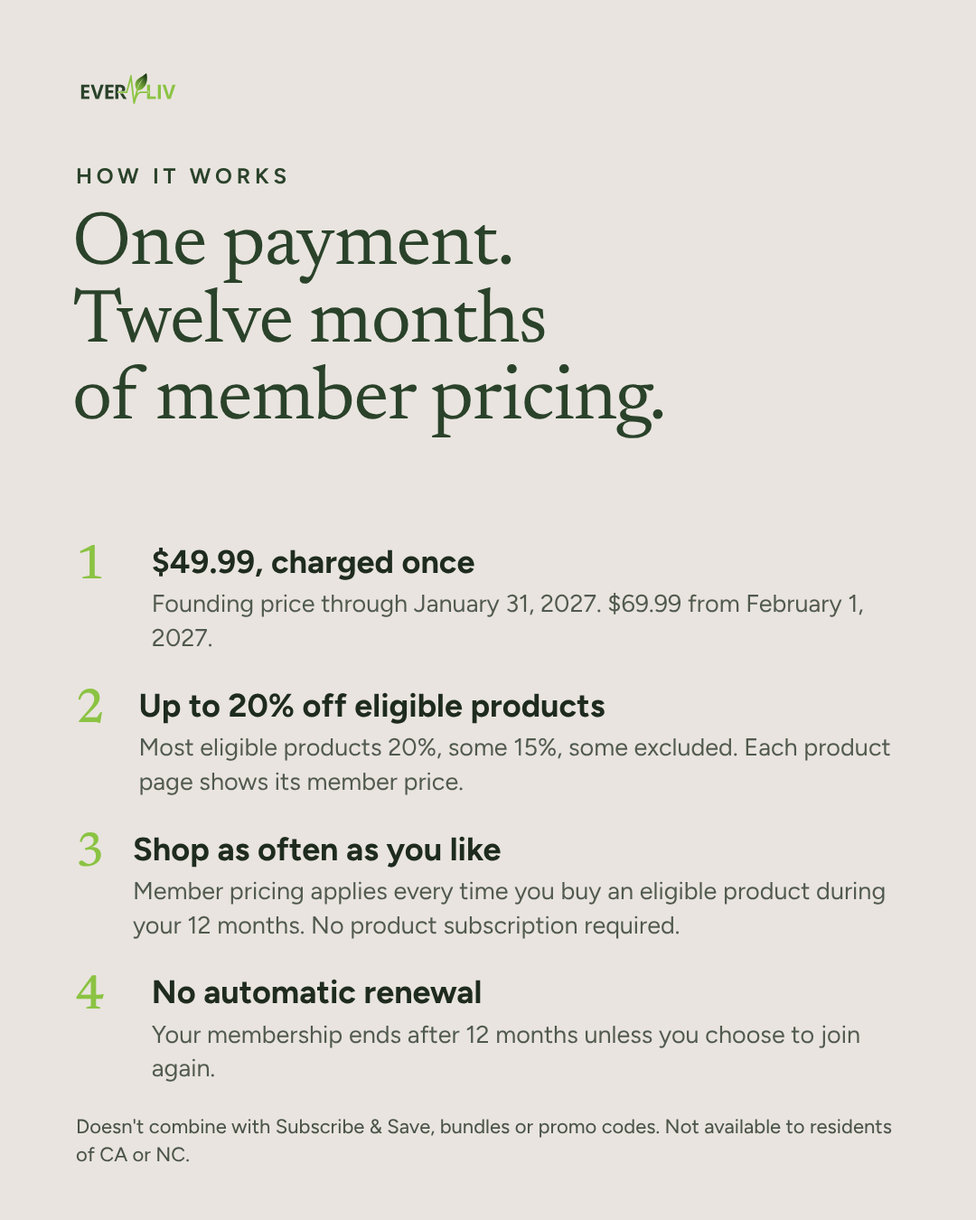
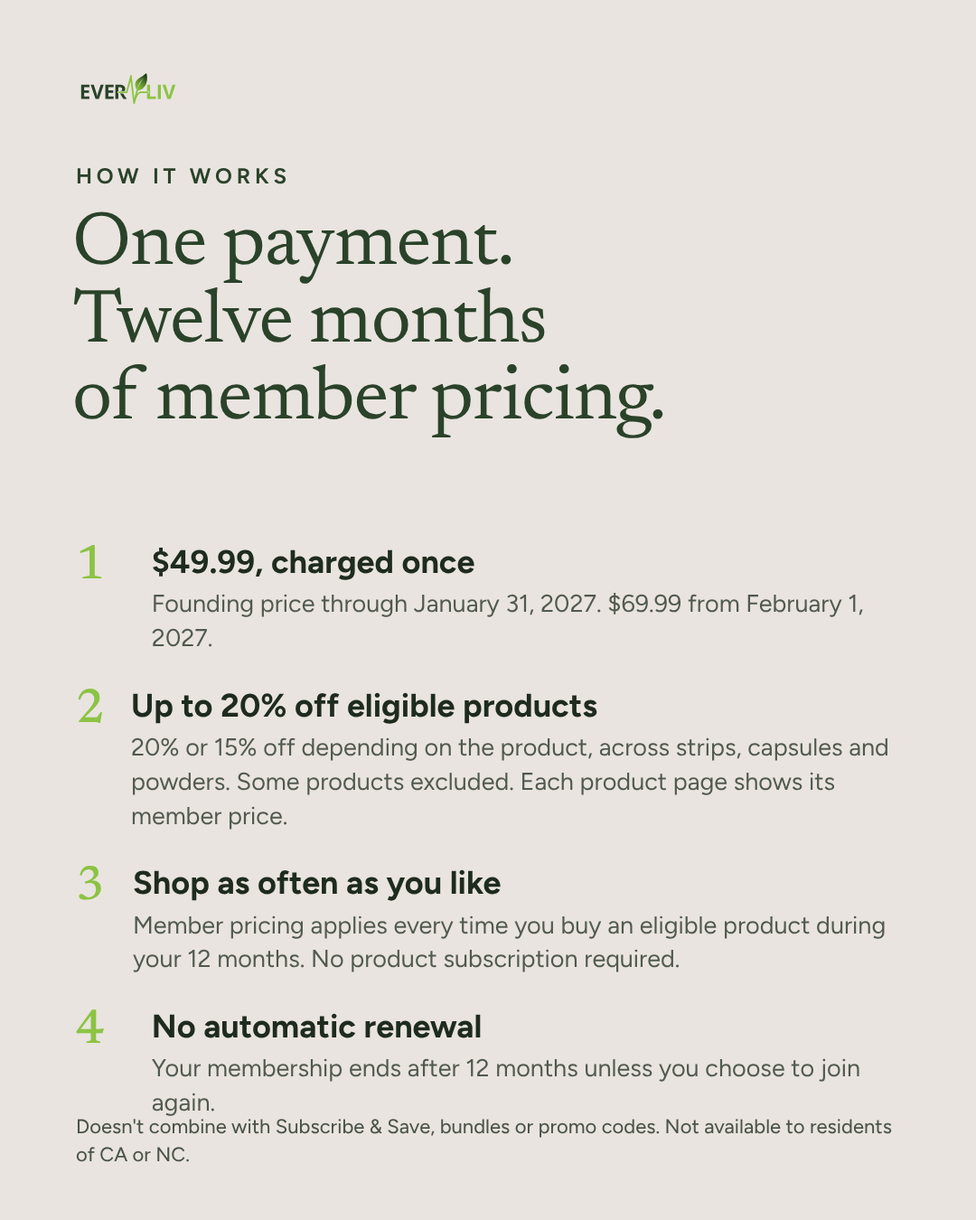
Founding Members rev 2: clean story 3, card-led launch + email header, beta-NMN example, '20% or 15%' accuracy, readiness pre-check
Claude-Session: https://claude.ai/code/session_01XtbQQjuhLfL9EX7cTct2eV

Changed region(s): [[0.0611, 0.56, 0.9167, 0.9333], [0.0611, 0.8089, 0.1222, 0.8711]]

diff --git a/campaigns/2026-founding-members/round-1/FM-05-email-black-friday.html b/campaigns/2026-founding-members/round-1/FM-05-email-black-friday.html
@@ -3,14 +3,14 @@
 <!-- Preheader --><div style="display:none;max-height:0;overflow:hidden">A full year of member pricing. $49.99, paid once. Founding price through January 31, 2027.</div>
 <table role="presentation" width="100%" cellpadding="0" cellspacing="0" style="background:#E9E4DF"><tr><td align="center" style="padding:24px 12px">
 <table role="presentation" width="100%" cellpadding="0" cellspacing="0" style="width:100%;max-width:600px;background:#ffffff;border-radius:14px;overflow:hidden">
-<tr><td><img src="FM-04-email-header_1200x600.png" width="600" alt="Become a Founding Member. A full year of member pricing, $49.99 paid once." style="display:block;width:100%;height:auto;border:0"></td></tr>
+<tr><td><img src="FM-04-email-header_1200x600.png" width="600" alt="EverLiv Founding Member card. Become a Founding Member: a full year of member pricing, $49.99 paid once." style="display:block;width:100%;height:auto;border:0"></td></tr>
 <tr><td class="px" style="padding:36px 40px 8px">
 <p style="margin:0 0 16px;font-size:17px;line-height:1.55">This Black Friday, we're not discounting products. We're opening membership.</p>
-<p style="margin:0 0 16px;font-size:17px;line-height:1.55">Join EverLiv Member Price Club as a Founding Member for <b>$49.99, paid once</b>. For the next 12 months, you get <b>member pricing every time you buy an eligible product</b>, as often as you like.</p>
+<p style="margin:0 0 16px;font-size:17px;line-height:1.55">Join EverLiv Member Price Club as a Founding Member for <b>$49.99, paid once</b>. For the next 12 months, you get <b>member pricing every time you buy an eligible product</b>, as often as you like, across strips, capsules, powders and more.</p>
 </td></tr>
 <tr><td class="px" style="padding:8px 40px">
 <table role="presentation" width="100%" cellpadding="0" cellspacing="0" style="background:#F4F1EE;border-radius:12px"><tr><td style="padding:22px 26px;font-size:16px;line-height:1.8">
-✓ Member pricing on every eligible order for 12 months<br>✓ Up to 20% off (most eligible products 20%, some 15%)<br>✓ One $49.99 payment. No automatic renewal<br>✓ No product subscription required<br>✓ Founding price through January 31, 2027 (ET)
+✓ Member pricing on every eligible order for 12 months<br>✓ Up to 20% off: 20% or 15%, depending on the product<br>✓ One $49.99 payment. No automatic renewal<br>✓ No product subscription required<br>✓ Founding price through January 31, 2027 (ET)
 </td></tr></table></td></tr>
 <tr><td class="px" style="padding:22px 40px 8px;font-size:16px;line-height:1.55">
 <p style="margin:0 0 6px"><b>Is it worth it?</b> If everything you buy is eligible for the full 20%, membership covers its fee after about $250 of purchases in 12 months. On 15% products it takes about $333. If you shop less often, everyday prices or Subscribe &amp; Save may suit you better.</p>
@@ -20,6 +20,6 @@
 <p style="margin:14px 0 0;font-size:14px;color:#5a665a">From February 1, 2027, membership is $69.99.</p>
 </td></tr>
 <tr><td class="px" style="padding:0 40px 32px;font-size:12px;line-height:1.55;color:#6b746b">
-Founding price $49.99 applies to memberships bought through January 31, 2027 (Eastern Time); $69.99 from February 1, 2027. Membership is a single payment, lasts 12 months from activation and does not renew automatically. During your membership, member pricing applies to every eligible one-time product purchase (not Subscribe &amp; Save): most eligible products 20% off, some 15%, some excluded. Doesn't combine with Subscribe &amp; Save, bundles, partner pricing or promo codes. Savings depend on what you buy and aren't guaranteed to exceed the fee. Refunds: full refund within 3 business days; within 30 days, a full refund if member pricing is unused, otherwise the fee minus savings received. Not currently available to residents of California or North Carolina. See the Membership Terms at everliv.life.<br><br>
+Founding price $49.99 applies to memberships bought through January 31, 2027 (Eastern Time); $69.99 from February 1, 2027. Membership is a single payment, lasts 12 months from activation and does not renew automatically. During your membership, member pricing applies to every eligible one-time product purchase (not Subscribe &amp; Save): 20% or 15% off depending on the product, some products excluded. Doesn't combine with Subscribe &amp; Save, bundles, partner pricing or promo codes. Savings depend on what you buy and aren't guaranteed to exceed the fee. Refunds: full refund within 3 business days; within 30 days, a full refund if member pricing is unused, otherwise the fee minus savings received. Not currently available to residents of California or North Carolina. See the Membership Terms at everliv.life.<br><br>
 EverLiv LLC · 30 N Gould St. Ste R, Sheridan, WY 82801 · <a href="{{unsubscribe}}" style="color:#6b746b">Unsubscribe</a>
 </td></tr></table></td></tr></table></body></html>

diff --git a/campaigns/2026-founding-members/round-1/FM-02-carousel-2-what-you-get_1080x1350.html b/campaigns/2026-founding-members/round-1/FM-02-carousel-2-what-you-get_1080x1350.html
@@ -30,7 +30,7 @@ body{width:var(--w);height:var(--h);overflow:hidden;font-family:FT;-webkit-font-
 <div class="eyebrow" style="position:absolute;left:84px;top:180px;color:#2A422A">How it works</div>
 <div class="serif" style="position:absolute;left:80px;top:230px;font-size:84px;line-height:1.02;color:#2A422A">One payment.<br>Twelve months<br>of member pricing.</div>
 <div style="position:absolute;left:84px;right:84px;top:600px;display:grid;gap:34px">
- <div style="display:flex;gap:30px;align-items:flex-start"><div class="serif" style="font-size:54px;line-height:1;color:#8BC343;width:56px;font-weight:500">1</div><div><div style="font-size:36px;font-weight:700;line-height:1.2">$49.99, charged once</div><div style="font-size:27px;line-height:1.4;opacity:.75;margin-top:6px">Founding price through January 31, 2027. $69.99 from February 1, 2027.</div></div></div><div style="display:flex;gap:30px;align-items:flex-start"><div class="serif" style="font-size:54px;line-height:1;color:#8BC343;width:56px;font-weight:500">2</div><div><div style="font-size:36px;font-weight:700;line-height:1.2">Up to 20% off eligible products</div><div style="font-size:27px;line-height:1.4;opacity:.75;margin-top:6px">Most eligible products 20%, some 15%, some excluded. Each product page shows its member price.</div></div></div><div style="display:flex;gap:30px;align-items:flex-start"><div class="serif" style="font-size:54px;line-height:1;color:#8BC343;width:56px;font-weight:500">3</div><div><div style="font-size:36px;font-weight:700;line-height:1.2">Shop as often as you like</div><div style="font-size:27px;line-height:1.4;opacity:.75;margin-top:6px">Member pricing applies every time you buy an eligible product during your 12 months. No product subscription required.</div></div></div><div style="display:flex;gap:30px;align-items:flex-start"><div class="serif" style="font-size:54px;line-height:1;color:#8BC343;width:56px;font-weight:500">4</div><div><div style="font-size:36px;font-weight:700;line-height:1.2">No automatic renewal</div><div style="font-size:27px;line-height:1.4;opacity:.75;margin-top:6px">Your membership ends after 12 months unless you choose to join again.</div></div></div>
+ <div style="display:flex;gap:30px;align-items:flex-start"><div class="serif" style="font-size:54px;line-height:1;color:#8BC343;width:56px;font-weight:500">1</div><div><div style="font-size:36px;font-weight:700;line-height:1.2">$49.99, charged once</div><div style="font-size:27px;line-height:1.4;opacity:.75;margin-top:6px">Founding price through January 31, 2027. $69.99 from February 1, 2027.</div></div></div><div style="display:flex;gap:30px;align-items:flex-start"><div class="serif" style="font-size:54px;line-height:1;color:#8BC343;width:56px;font-weight:500">2</div><div><div style="font-size:36px;font-weight:700;line-height:1.2">Up to 20% off eligible products</div><div style="font-size:27px;line-height:1.4;opacity:.75;margin-top:6px">20% or 15% off depending on the product, across strips, capsules and powders. Some products excluded. Each product page shows its member price.</div></div></div><div style="display:flex;gap:30px;align-items:flex-start"><div class="serif" style="font-size:54px;line-height:1;color:#8BC343;width:56px;font-weight:500">3</div><div><div style="font-size:36px;font-weight:700;line-height:1.2">Shop as often as you like</div><div style="font-size:27px;line-height:1.4;opacity:.75;margin-top:6px">Member pricing applies every time you buy an eligible product during your 12 months. No product subscription required.</div></div></div><div style="display:flex;gap:30px;align-items:flex-start"><div class="serif" style="font-size:54px;line-height:1;color:#8BC343;width:56px;font-weight:500">4</div><div><div style="font-size:36px;font-weight:700;line-height:1.2">No automatic renewal</div><div style="font-size:27px;line-height:1.4;opacity:.75;margin-top:6px">Your membership ends after 12 months unless you choose to join again.</div></div></div>
 </div>
 <div class="fine" style="position:absolute;left:84px;right:84px;bottom:56px">Doesn't combine with Subscribe &amp; Save, bundles or promo codes. Not available to residents of CA or NC.</div>
 </div></body></html>

diff --git a/campaigns/2026-founding-members/round-1/FM-03-story-2-benefits_1080x1920.html b/campaigns/2026-founding-members/round-1/FM-03-story-2-benefits_1080x1920.html
@@ -29,8 +29,9 @@ body{width:var(--w);height:var(--h);overflow:hidden;font-family:FT;-webkit-font-
 <img class="logo" src="file:///home/claude/fm/src/logo.svg" style="left:50%;transform:translateX(-50%);top:270px;height:44px">
 <div class="serif" style="position:absolute;left:90px;right:90px;top:400px;font-size:96px;line-height:1.02;color:#2A422A">A full year of member pricing.</div>
 <div style="position:absolute;left:90px;right:90px;top:780px;display:grid;gap:30px">
- <div style="display:flex;align-items:center;gap:26px;font-size:40px;line-height:1.25;font-weight:650"><span style="width:18px;height:18px;border-radius:50%;background:#8BC343;flex:none"></span>12 months of member pricing</div><div style="display:flex;align-items:center;gap:26px;font-size:40px;line-height:1.25;font-weight:650"><span style="width:18px;height:18px;border-radius:50%;background:#8BC343;flex:none"></span>Every eligible order, as often as you shop</div><div style="display:flex;align-items:center;gap:26px;font-size:40px;line-height:1.25;font-weight:650"><span style="width:18px;height:18px;border-radius:50%;background:#8BC343;flex:none"></span>Up to 20% off (most 20%, some 15%)</div><div style="display:flex;align-items:center;gap:26px;font-size:40px;line-height:1.25;font-weight:650"><span style="width:18px;height:18px;border-radius:50%;background:#8BC343;flex:none"></span>One payment. No automatic renewal</div>
+ <div style="display:flex;align-items:center;gap:26px;font-size:40px;line-height:1.25;font-weight:650"><span style="width:18px;height:18px;border-radius:50%;background:#8BC343;flex:none"></span>12 months of member pricing</div><div style="display:flex;align-items:center;gap:26px;font-size:40px;line-height:1.25;font-weight:650"><span style="width:18px;height:18px;border-radius:50%;background:#8BC343;flex:none"></span>Every eligible order, as often as you shop</div><div style="display:flex;align-items:center;gap:26px;font-size:40px;line-height:1.25;font-weight:650"><span style="width:18px;height:18px;border-radius:50%;background:#8BC343;flex:none"></span>Up to 20% off (20% or 15%, by product)</div><div style="display:flex;align-items:center;gap:26px;font-size:40px;line-height:1.25;font-weight:650"><span style="width:18px;height:18px;border-radius:50%;background:#8BC343;flex:none"></span>One payment. No automatic renewal</div>
 </div>
-<img src="file:///home/claude/fm/src/strips-available-4--row--transparent.png" style="position:absolute;left:90px;top:1190px;width:900px">
-<div class="fine" style="position:absolute;left:90px;right:90px;top:1500px;font-size:24px">Founding price through Jan 31, 2027 (ET); $69.99 from Feb 1, 2027. 12 months, no automatic renewal. Applies to eligible one-time product purchases (not Subscribe & Save); some 15%, some excluded. Not available in CA or NC.</div>
+<img src="file:///home/claude/fm/src/strips-available-4--row--transparent.png" style="position:absolute;left:90px;top:1150px;width:900px">
+<div style="position:absolute;left:90px;right:90px;top:1440px;font-size:26px;font-weight:600;color:#2A422A;opacity:.8">Oral strips shown. Member pricing covers eligible products across EverLiv.</div>
+<div class="fine" style="position:absolute;left:90px;right:90px;top:1510px;font-size:24px">Founding price through Jan 31, 2027 (ET); $69.99 from Feb 1, 2027. 12 months, no automatic renewal. Applies to eligible one-time product purchases (not Subscribe & Save): 20% or 15% by product, some excluded. Not available in CA or NC.</div>
 </div></body></html>

diff --git a/campaigns/2026-founding-members/round-1/FM-01-launch-black-friday_1080x1350.html b/campaigns/2026-founding-members/round-1/FM-01-launch-black-friday_1080x1350.html
@@ -30,7 +30,10 @@ body{width:var(--w);height:var(--h);overflow:hidden;font-family:FT;-webkit-font-
 <div class="eyebrow" style="position:absolute;left:84px;top:196px;color:#8BC343">Black Friday · Founding Member Launch</div>
 <div class="serif" style="position:absolute;left:80px;top:248px;font-size:104px;line-height:1.0">Become a<br>Founding Member.</div>
 <div style="position:absolute;left:84px;top:492px;font-size:36px;line-height:1.35;font-weight:450;opacity:.92">A full year of member pricing.<br><b style="font-weight:700;color:#fff">$49.99, paid once.</b></div>
-<div style="position:absolute;left:84px;top:600px;font-size:25px;line-height:1.4;color:#8BC343;font-weight:600">Member prices on every eligible order, as often as you shop.</div>
-<img src="file:///home/claude/fm/src/strips-available-4--2x2--transparent.png" style="position:absolute;left:285px;top:662px;width:510px">
-<div class="fine" style="position:absolute;left:84px;right:84px;bottom:56px">Founding price $49.99 for memberships bought through Jan 31, 2027 (ET); $69.99 from Feb 1, 2027. One payment; 12 months from activation; no automatic renewal. Member pricing applies to every eligible one-time product purchase during your membership (not Subscribe & Save): most eligible products 20% off, some 15%, some excluded. Savings depend on what you buy. Not available to residents of CA or NC. Terms at everliv.life.</div>
+<div style="position:absolute;left:84px;top:600px;font-size:25px;line-height:1.4;color:#8BC343;font-weight:600">Member prices on every eligible order, as often as you shop:<br>strips, capsules, powders and more.</div>
+<div class="card" style="left:220px;top:712px;transform:rotate(-5deg) scale(0.94);transform-origin:center;background:linear-gradient(140deg,#4a6b47 0%,#335032 55%,#253d25 100%);border:1.5px solid rgba(233,228,223,.35);box-shadow:0 40px 90px -30px rgba(0,0,0,.6)">
+      <div class="top"><img src="file:///home/claude/fm/src/logo-white.svg" style="height:40px"><div class="club">Member Price Club</div></div>
+      <div class="fm">Founding Member</div><div class="line"></div>
+      <div class="meta"><span>12 months</span><span>Paid once</span></div></div>
+<div class="fine" style="position:absolute;left:84px;right:84px;bottom:56px">Founding price $49.99 for memberships bought through Jan 31, 2027 (ET); $69.99 from Feb 1, 2027. One payment; 12 months from activation; no automatic renewal. Member pricing applies to every eligible one-time product purchase during your membership (not Subscribe & Save): 20% or 15% off depending on the product, some products excluded. Savings depend on what you buy. Not available to residents of CA or NC. Terms at everliv.life.</div>
 </div></body></html>

diff --git a/campaigns/2026-founding-members/round-1/FM-02-carousel-3-what-members-pay_1080x1350.html b/campaigns/2026-founding-members/round-1/FM-02-carousel-3-what-members-pay_1080x1350.html
@@ -36,10 +36,10 @@ body{width:var(--w);height:var(--h);overflow:hidden;font-family:FT;-webkit-font-
        <div style="margin-top:14px;font-size:30px">Everyday $59.99</div>
        <div class="serif" style="font-size:74px;line-height:1.05;color:#2A422A">$47.99 <span style="font-family:FT;font-size:26px;font-weight:650;letter-spacing:.08em;color:#1E2B1E;opacity:.7">MEMBER · 20% OFF</span></div></div></div>
  <div style="display:flex;gap:34px;align-items:center">
-     <div class="tile" style="width:260px;height:260px;flex:none"><img src="file:///home/claude/fm/src/everliv-peptide-eye-serum.jpg"></div>
-     <div><div style="font-size:34px;font-weight:700;line-height:1.2">Peptide Eye Gel-Cream</div>
-       <div style="margin-top:14px;font-size:30px">Everyday $44.99</div>
-       <div class="serif" style="font-size:74px;line-height:1.05;color:#2A422A">$35.99 <span style="font-family:FT;font-size:26px;font-weight:650;letter-spacing:.08em;color:#1E2B1E;opacity:.7">MEMBER · 20% OFF</span></div></div></div>
+     <div class="tile" style="width:260px;height:260px;flex:none"><img src="file:///home/claude/fm/src/everliv-b-nmn.jpg"></div>
+     <div><div style="font-size:34px;font-weight:700;line-height:1.2">β-NMN</div>
+       <div style="margin-top:14px;font-size:30px">Everyday $49.99</div>
+       <div class="serif" style="font-size:74px;line-height:1.05;color:#2A422A">$39.99 <span style="font-family:FT;font-size:26px;font-weight:650;letter-spacing:.08em;color:#1E2B1E;opacity:.7">MEMBER · 20% OFF</span></div></div></div>
 </div>
 <div class="fine" style="position:absolute;left:84px;right:84px;bottom:56px">Prices on everliv.life as of Nov 16, 2026, and may change; your cart shows your exact price. Member pricing applies each time you buy an eligible product during your membership (one-time purchases, not Subscribe &amp; Save). Some products are 15% off and some are excluded.</div>
 </div></body></html>

diff --git a/campaigns/2026-founding-members/round-1/FM-03-story-3-cta_1080x1920.html b/campaigns/2026-founding-members/round-1/FM-03-story-3-cta_1080x1920.html
@@ -30,7 +30,7 @@ body{width:var(--w);height:var(--h);overflow:hidden;font-family:FT;-webkit-font-
 <div class="eyebrow" style="position:absolute;left:0;right:0;text-align:center;top:430px;color:#8BC343">Founding price</div>
 <div class="serif" style="position:absolute;left:0;right:0;text-align:center;top:490px;font-size:220px;line-height:1">$49.99</div>
 <div style="position:absolute;left:0;right:0;text-align:center;top:760px;font-size:40px;line-height:1.4">through <b>January 31, 2027</b> (ET)<br><span style="opacity:.7">$69.99 from February 1, 2027</span></div>
-<div style="position:absolute;left:140px;right:140px;top:1050px;height:190px;border:3px dashed rgba(233,228,223,.45);border-radius:28px;display:flex;align-items:center;justify-content:center;font-size:28px;letter-spacing:.14em;text-transform:uppercase;opacity:.75">Link sticker here</div>
+
 <div style="position:absolute;left:0;right:0;text-align:center;top:1290px;font-size:36px;font-weight:600">Tap to join</div>
-<div class="fine" style="position:absolute;left:90px;right:90px;top:1420px;text-align:center;font-size:24px">Founding price through Jan 31, 2027 (ET); $69.99 from Feb 1, 2027. 12 months, no automatic renewal. Applies to eligible one-time product purchases (not Subscribe & Save); some 15%, some excluded. Not available in CA or NC.</div>
+<div class="fine" style="position:absolute;left:90px;right:90px;top:1420px;text-align:center;font-size:24px">Founding price through Jan 31, 2027 (ET); $69.99 from Feb 1, 2027. 12 months, no automatic renewal. Applies to eligible one-time product purchases (not Subscribe & Save): 20% or 15% by product, some excluded. Not available in CA or NC.</div>
 </div></body></html>

diff --git a/campaigns/2026-founding-members/round-1/FM-02-carousel-5-founding-price_1080x1350.html b/campaigns/2026-founding-members/round-1/FM-02-carousel-5-founding-price_1080x1350.html
@@ -40,5 +40,5 @@ body{width:var(--w);height:var(--h);overflow:hidden;font-family:FT;-webkit-font-
 </div>
 <div class="serif" style="position:absolute;left:80px;top:760px;font-size:76px;line-height:1.05;color:#2A422A">Join as a<br>Founding Member.</div>
 <div style="position:absolute;left:84px;top:960px;display:inline-block;background:#2A422A;color:#E9E4DF;border-radius:999px;padding:26px 46px;font-size:30px;font-weight:650">everliv.life/pages/membership</div>
-<div class="fine" style="position:absolute;left:84px;right:84px;bottom:56px">Founding price $49.99 for memberships bought through Jan 31, 2027 (ET); $69.99 from Feb 1, 2027. One payment; 12 months from activation; no automatic renewal. Member pricing applies to every eligible one-time product purchase during your membership (not Subscribe & Save): most eligible products 20% off, some 15%, some excluded. Savings depend on what you buy. Not available to residents of CA or NC. Terms at everliv.life.</div>
+<div class="fine" style="position:absolute;left:84px;right:84px;bottom:56px">Founding price $49.99 for memberships bought through Jan 31, 2027 (ET); $69.99 from Feb 1, 2027. One payment; 12 months from activation; no automatic renewal. Member pricing applies to every eligible one-time product purchase during your membership (not Subscribe & Save): 20% or 15% off depending on the product, some products excluded. Savings depend on what you buy. Not available to residents of CA or NC. Terms at everliv.life.</div>
 </div></body></html>

diff --git a/campaigns/2026-founding-members/round-1/FM-04-email-header_1200x600.html b/campaigns/2026-founding-members/round-1/FM-04-email-header_1200x600.html
@@ -30,5 +30,8 @@ body{width:var(--w);height:var(--h);overflow:hidden;font-family:FT;-webkit-font-
 <div class="eyebrow" style="position:absolute;left:70px;top:150px;color:#8BC343;font-size:20px">Black Friday · Founding Members</div>
 <div class="serif" style="position:absolute;left:66px;top:190px;font-size:70px;line-height:1.02">Become a<br>Founding<br>Member.</div>
 <div style="position:absolute;left:70px;top:445px;font-size:27px;line-height:1.35">A full year of member pricing.<br><b>$49.99, paid once.</b></div>
-<img src="file:///home/claude/fm/src/strips-available-4--2x2--transparent.png" style="position:absolute;right:90px;top:95px;width:440px">
+<div class="card" style="left:560px;top:120px;transform:rotate(-5deg) scale(0.82);transform-origin:center;background:linear-gradient(140deg,#4a6b47 0%,#335032 55%,#253d25 100%);border:1.5px solid rgba(233,228,223,.35);box-shadow:0 40px 90px -30px rgba(0,0,0,.6)">
+      <div class="top"><img src="file:///home/claude/fm/src/logo-white.svg" style="height:40px"><div class="club">Member Price Club</div></div>
+      <div class="fm">Founding Member</div><div class="line"></div>
+      <div class="meta"><span>12 months</span><span>Paid once</span></div></div>
 </div></body></html>

diff --git a/campaigns/2026-founding-members/round-1/FM-03-story-1-hook_1080x1920.html b/campaigns/2026-founding-members/round-1/FM-03-story-1-hook_1080x1920.html
@@ -29,7 +29,7 @@ body{width:var(--w);height:var(--h);overflow:hidden;font-family:FT;-webkit-font-
 <img class="logo" src="file:///home/claude/fm/src/logo-white.svg" style="left:50%;transform:translateX(-50%);top:270px;height:48px">
 <div class="eyebrow" style="position:absolute;left:0;right:0;text-align:center;top:420px;color:#8BC343">Black Friday</div>
 <div class="serif" style="position:absolute;left:0;right:0;text-align:center;top:480px;font-size:112px;line-height:1.0">Become a<br>Founding<br>Member.</div>
-<div class="card" style="left:220px;top:900px;transform:rotate(-5deg) scale(1);transform-origin:center">
+<div class="card" style="left:220px;top:900px;transform:rotate(-5deg) scale(1);transform-origin:center;background:linear-gradient(140deg,#4a6b47 0%,#335032 55%,#253d25 100%);border:1.5px solid rgba(233,228,223,.35);box-shadow:0 40px 90px -30px rgba(0,0,0,.6)">
       <div class="top"><img src="file:///home/claude/fm/src/logo-white.svg" style="height:40px"><div class="club">Member Price Club</div></div>
       <div class="fm">Founding Member</div><div class="line"></div>
       <div class="meta"><span>12 months</span><span>Paid once</span></div></div>

diff --git a/campaigns/2026-founding-members/round-1/FM-02-carousel-1-cover_1080x1350.html b/campaigns/2026-founding-members/round-1/FM-02-carousel-1-cover_1080x1350.html
@@ -30,7 +30,7 @@ body{width:var(--w);height:var(--h);overflow:hidden;font-family:FT;-webkit-font-
 <div class="eyebrow" style="position:absolute;left:84px;top:196px;color:#2A422A">EverLiv Founding Members</div>
 <div class="serif" style="position:absolute;left:80px;top:248px;font-size:104px;line-height:1.0;color:#2A422A">Become a<br>Founding Member.</div>
 <div style="position:absolute;left:84px;top:500px;font-size:36px;line-height:1.35;font-weight:450">A full year of member pricing.<br><b style="font-weight:700">$49.99, paid once.</b></div>
-<div class="card" style="left:220px;top:700px;transform:rotate(-5deg) scale(1);transform-origin:center">
+<div class="card" style="left:220px;top:700px;transform:rotate(-5deg) scale(1);transform-origin:center;">
       <div class="top"><img src="file:///home/claude/fm/src/logo-white.svg" style="height:40px"><div class="club">Member Price Club</div></div>
       <div class="fm">Founding Member</div><div class="line"></div>
       <div class="meta"><span>12 months</span><span>Paid once</span></div></div>

diff --git a/campaigns/2026-founding-members/round-1/build.py b/campaigns/2026-founding-members/round-1/build.py
@@ -35,14 +35,15 @@ body{{width:var(--w);height:var(--h);overflow:hidden;font-family:FT;-webkit-font
 .tile img{{width:100%;height:100%;object-fit:cover;display:block}}
 .price-old{{text-decoration:line-through;opacity:.55}}
 """
-def card(x,y,rot=0,scale=1):
-    return f"""<div class="card" style="left:{x}px;top:{y}px;transform:rotate({rot}deg) scale({scale});transform-origin:center">
+def card(x,y,rot=0,scale=1,ondark=False):
+    extra = "background:linear-gradient(140deg,#4a6b47 0%,#33503 2 55%,#253d25 100%);border:1.5px solid rgba(233,228,223,.35);box-shadow:0 40px 90px -30px rgba(0,0,0,.6)".replace("#33503 2","#335032") if ondark else ""
+    return f"""<div class="card" style="left:{x}px;top:{y}px;transform:rotate({rot}deg) scale({scale});transform-origin:center;{extra}">
       <div class="top"><img src="{u('logo-white.svg')}" style="height:40px"><div class="club">Member Price Club</div></div>
       <div class="fm">Founding Member</div><div class="line"></div>
       <div class="meta"><span>12 months</span><span>Paid once</span></div></div>"""
 
 FINE_FEED = ("Founding price $49.99 for memberships bought through Jan 31, 2027 (ET); $69.99 from Feb 1, 2027. One payment; 12 months from activation; no automatic renewal. "
-             "Member pricing applies to every eligible one-time product purchase during your membership (not Subscribe & Save): most eligible products 20% off, some 15%, some excluded. "
+             "Member pricing applies to every eligible one-time product purchase during your membership (not Subscribe & Save): 20% or 15% off depending on the product, some products excluded. "
              "Savings depend on what you buy. Not available to residents of CA or NC. Terms at everliv.life.")
 
 def page(w,h,body,cls='green'):
@@ -55,8 +56,8 @@ A['FM-01-launch-black-friday_1080x1350'] = (1080,1350,'green',f"""
 <div class="eyebrow" style="position:absolute;left:84px;top:196px;color:{FRESH}">Black Friday · Founding Member Launch</div>
 <div class="serif" style="position:absolute;left:80px;top:248px;font-size:104px;line-height:1.0">Become a<br>Founding Member.</div>
 <div style="position:absolute;left:84px;top:492px;font-size:36px;line-height:1.35;font-weight:450;opacity:.92">A full year of member pricing.<br><b style="font-weight:700;color:#fff">$49.99, paid once.</b></div>
-<div style="position:absolute;left:84px;top:600px;font-size:25px;line-height:1.4;color:{FRESH};font-weight:600">Member prices on every eligible order, as often as you shop.</div>
-<img src="{u('strips-available-4--2x2--transparent.png')}" style="position:absolute;left:285px;top:662px;width:510px">
+<div style="position:absolute;left:84px;top:600px;font-size:25px;line-height:1.4;color:{FRESH};font-weight:600">Member prices on every eligible order, as often as you shop:<br>strips, capsules, powders and more.</div>
+{card(220,712,-5,0.94,True)}
 <div class="fine" style="position:absolute;left:84px;right:84px;bottom:56px">{FINE_FEED}</div>
 """)
 
@@ -77,7 +78,7 @@ A['FM-02-carousel-2-what-you-get_1080x1350'] = (1080,1350,'ivory',f"""
 <div style="position:absolute;left:84px;right:84px;top:600px;display:grid;gap:34px">
  {''.join(f'<div style="display:flex;gap:30px;align-items:flex-start"><div class="serif" style="font-size:54px;line-height:1;color:{FRESH};width:56px;font-weight:500">{n}</div><div><div style="font-size:36px;font-weight:700;line-height:1.2">{t}</div><div style="font-size:27px;line-height:1.4;opacity:.75;margin-top:6px">{d}</div></div></div>' for n,t,d in [
   ('1','$49.99, charged once','Founding price through January 31, 2027. $69.99 from February 1, 2027.'),
-  ('2','Up to 20% off eligible products','Most eligible products 20%, some 15%, some excluded. Each product page shows its member price.'),
+  ('2','Up to 20% off eligible products','20% or 15% off depending on the product, across strips, capsules and powders. Some products excluded. Each product page shows its member price.'),
   ('3','Shop as often as you like','Member pricing applies every time you buy an eligible product during your 12 months. No product subscription required.'),
   ('4','No automatic renewal','Your membership ends after 12 months unless you choose to join again.')])}
 </div>
@@ -96,7 +97,7 @@ A['FM-02-carousel-3-what-members-pay_1080x1350'] = (1080,1350,'ivory',f"""
 <div class="serif" style="position:absolute;left:80px;top:228px;font-size:84px;line-height:1.02;color:{LEAF}">What members pay.</div>
 <div style="position:absolute;left:84px;right:84px;top:420px;display:grid;gap:56px">
  {ex('everliv-nad.jpg','NAD+','59.99','47.99',20)}
- {ex('everliv-peptide-eye-serum.jpg','Peptide Eye Gel-Cream','44.99','35.99',20)}
+ {ex('everliv-b-nmn.jpg','β-NMN','49.99','39.99',20)}
 </div>
 <div class="fine" style="position:absolute;left:84px;right:84px;bottom:56px">Prices on everliv.life as of Nov 16, 2026, and may change; your cart shows your exact price. Member pricing applies each time you buy an eligible product during your membership (one-time purchases, not Subscribe &amp; Save). Some products are 15% off and some are excluded.</div>
 """)
@@ -132,29 +133,30 @@ A['FM-02-carousel-5-founding-price_1080x1350'] = (1080,1350,'ivory',f"""
 """)
 
 # ---------- C. Stories, 1080x1920 (safe area: top 250, bottom 340 kept clear) ----------
-FINE_STORY = "Founding price through Jan 31, 2027 (ET); $69.99 from Feb 1, 2027. 12 months, no automatic renewal. Applies to eligible one-time product purchases (not Subscribe & Save); some 15%, some excluded. Not available in CA or NC."
+FINE_STORY = "Founding price through Jan 31, 2027 (ET); $69.99 from Feb 1, 2027. 12 months, no automatic renewal. Applies to eligible one-time product purchases (not Subscribe & Save): 20% or 15% by product, some excluded. Not available in CA or NC."
 A['FM-03-story-1-hook_1080x1920'] = (1080,1920,'green',f"""
 <img class="logo" src="{u('logo-white.svg')}" style="left:50%;transform:translateX(-50%);top:270px;height:48px">
 <div class="eyebrow" style="position:absolute;left:0;right:0;text-align:center;top:420px;color:{FRESH}">Black Friday</div>
 <div class="serif" style="position:absolute;left:0;right:0;text-align:center;top:480px;font-size:112px;line-height:1.0">Become a<br>Founding<br>Member.</div>
-{card(220,900,-5)}
+{card(220,900,-5,1,True)}
 <div style="position:absolute;left:0;right:0;text-align:center;top:1390px;font-size:40px;font-weight:600">$49.99, paid once.</div>
 """)
 A['FM-03-story-2-benefits_1080x1920'] = (1080,1920,'ivory',f"""
 <img class="logo" src="{u('logo.svg')}" style="left:50%;transform:translateX(-50%);top:270px;height:44px">
 <div class="serif" style="position:absolute;left:90px;right:90px;top:400px;font-size:96px;line-height:1.02;color:{LEAF}">A full year of member pricing.</div>
 <div style="position:absolute;left:90px;right:90px;top:780px;display:grid;gap:30px">
- {''.join(f'<div style="display:flex;align-items:center;gap:26px;font-size:40px;line-height:1.25;font-weight:650"><span style="width:18px;height:18px;border-radius:50%;background:{FRESH};flex:none"></span>{t}</div>' for t in ['12 months of member pricing','Every eligible order, as often as you shop','Up to 20% off (most 20%, some 15%)','One payment. No automatic renewal'])}
+ {''.join(f'<div style="display:flex;align-items:center;gap:26px;font-size:40px;line-height:1.25;font-weight:650"><span style="width:18px;height:18px;border-radius:50%;background:{FRESH};flex:none"></span>{t}</div>' for t in ['12 months of member pricing','Every eligible order, as often as you shop','Up to 20% off (20% or 15%, by product)','One payment. No automatic renewal'])}
 </div>
-<img src="{u('strips-available-4--row--transparent.png')}" style="position:absolute;left:90px;top:1190px;width:900px">
-<div class="fine" style="position:absolute;left:90px;right:90px;top:1500px;font-size:24px">{FINE_STORY}</div>
+<img src="{u('strips-available-4--row--transparent.png')}" style="position:absolute;left:90px;top:1150px;width:900px">
+<div style="position:absolute;left:90px;right:90px;top:1440px;font-size:26px;font-weight:600;color:{LEAF};opacity:.8">Oral strips shown. Member pricing covers eligible products across EverLiv.</div>
+<div class="fine" style="position:absolute;left:90px;right:90px;top:1510px;font-size:24px">{FINE_STORY}</div>
 """)
 A['FM-03-story-3-cta_1080x1920'] = (1080,1920,'green',f"""
 <img class="logo" src="{u('logo-white.svg')}" style="left:50%;transform:translateX(-50%);top:270px;height:48px">
 <div class="eyebrow" style="position:absolute;left:0;right:0;text-align:center;top:430px;color:{FRESH}">Founding price</div>
 <div class="serif" style="position:absolute;left:0;right:0;text-align:center;top:490px;font-size:220px;line-height:1">$49.99</div>
 <div style="position:absolute;left:0;right:0;text-align:center;top:760px;font-size:40px;line-height:1.4">through <b>January 31, 2027</b> (ET)<br><span style="opacity:.7">$69.99 from February 1, 2027</span></div>
-<div style="position:absolute;left:140px;right:140px;top:1050px;height:190px;border:3px dashed rgba(233,228,223,.45);border-radius:28px;display:flex;align-items:center;justify-content:center;font-size:28px;letter-spacing:.14em;text-transform:uppercase;opacity:.75">Link sticker here</div>
+
 <div style="position:absolute;left:0;right:0;text-align:center;top:1290px;font-size:36px;font-weight:600">Tap to join</div>
 <div class="fine" style="position:absolute;left:90px;right:90px;top:1420px;text-align:center;font-size:24px">{FINE_STORY}</div>
 """)
@@ -165,7 +167,7 @@ A['FM-04-email-header_1200x600'] = (1200,600,'green',f"""
 <div class="eyebrow" style="position:absolute;left:70px;top:150px;color:{FRESH};font-size:20px">Black Friday · Founding Members</div>
 <div class="serif" style="position:absolute;left:66px;top:190px;font-size:70px;line-height:1.02">Become a<br>Founding<br>Member.</div>
 <div style="position:absolute;left:70px;top:445px;font-size:27px;line-height:1.35">A full year of member pricing.<br><b>$49.99, paid once.</b></div>
-<img src="{u('strips-available-4--2x2--transparent.png')}" style="position:absolute;right:90px;top:95px;width:440px">
+{card(560,120,-5,0.82,True)}
 """)
 
 async def main():

diff --git a/campaigns/2026-founding-members/round-1/FM-captions-and-email-copy.md b/campaigns/2026-founding-members/round-1/FM-captions-and-email-copy.md
@@ -1,28 +1,43 @@
-# Founding Members: final-approval package (Round 1, revised)
-**Revised:** Nov 16, 2026, about 12:15 PM ET.
-**Status:** NOT scheduled, published or sent, and no paid ads. Waiting for (a) Restructuring's shopping-flow fixes to be verified and (b) Jeff's final approval.
+# Founding Members: final-approval package (Round 1, revision 2)
+**Revised:** Nov 16, 2026, about 12:45 PM ET.
+**Status:** NOT scheduled, published or sent, and no paid ads. Launch depends on (a) Restructuring's shopping-flow repairs, verified end to end, and (b) Jeff's final approval.
 
-The design direction is unchanged. These are targeted refinements only.
-
-## What changed from Round 1
-| # | Your note | Change |
+## Revision 2 changes (targeted; design unchanged)
+| # | Request | Change |
 |---|---|---|
-| 1 | Repeated use, not a one-time discount | Launch post adds "Member prices on every eligible order, as often as you shop." Carousel slide 2, point 3, is now "Shop as often as you like." Story 2 adds "Every eligible order, as often as you shop." The email now says "member pricing every time you buy an eligible product, as often as you like." Fine print reads "One payment… member pricing applies to every eligible one-time product purchase during your membership (not Subscribe & Save)." |
-| 2 | Unavailable strips | All purchase-driving creative (launch post, story 2, email header) now shows only the **four strips available today**: Energy, Hydrate, Iron, D3+K2. Sleep (sold out) and Collagen (paused) are removed from this campaign's imagery. The six-tin family image stays in the library for brand use once both are available again. |
-| 3 | Conditional break-even | Slide 4 now opens with "If every purchase is a 20%-off product:" and reads "If everything you buy is eligible for the full 20%… about $250. On 15% products it takes about $333, and a mix lands in between." Fine print: "aren't guaranteed to exceed the $49.99 fee." The email uses the same wording. |
-| 4 | CTA and URL | The CTA is `everliv.life/pages/membership`, which returns 200 as of 12:10 PM. The email button links there with UTMs. The full join flow on mobile and desktop **must be re-tested after Restructuring's repairs** (checklist below). |
-| 5 | Disclosures, and the email on mobile | All disclosures are kept. The email was rebuilt to fit phones: at 390 px there is no horizontal scroll (it previously overflowed at 624 px), the CTA is 300×52 px, and side padding tightens on small screens. |
-| 6 | Claims and images | No product claims added. The images are unaltered supplier renders. The Eye Gel-Cream example stays, named as on the store; the physical label still reads "Peptide Eye Serum" (with the supplier). |
-| 7–8 | Hold | Nothing scheduled or sent. Paid ads stay on hold. |
+| 1 | Clean Story 3 | The "LINK STICKER HERE" placeholder is removed. The space between the price block and "Tap to join" stays clear for the real Instagram link sticker. |
+| 2 | Founding Member card central; offer isn't strips-only | **Launch post:** the card is now the hero visual, replacing the strip tins, with the line "Member prices on every eligible order, as often as you shop: strips, capsules, powders and more." **Email header:** the card replaces the tins. **Story 2:** keeps the four available strips as supporting imagery, captioned "Oral strips shown. Member pricing covers eligible products across EverLiv." On green backgrounds the card has a lighter edge so it stands out. |
+| 3 | Eye Gel-Cream discrepancy | **Replaced in carousel slide 3 by β-NMN:** everyday $49.99, member $39.99 (20%), live and available; Restructuring listed it as positive-margin. The Eye discrepancy has been sent to Restructuring (see the coordination doc). |
+| 4 | Does "most 20%, some 15%" match the settings? | **No, so it's corrected.** All 44 live product pages were checked: **19 products at 20%, 21 at 15%, 4 with no member price** (membership, the 2 wheys, the Ultimate Bundle). "Most are 20%" is therefore inaccurate. Of products available today, it's 17 at 20% vs 21 at 15%, because Sleep and Collagen are unavailable. Every asset now says **"20% or 15% off, depending on the product."** The site's own "most eligible products 20%" wording was flagged to Restructuring. The conditional break-even and the "not guaranteed" disclosure are unchanged. |
 
-## Live verification (12:10 PM ET, Nov 16)
+## Visual check of the packaging shown
+| Product | Image | Packaging status |
+|---|---|---|
+| NAD+ | supplier render (store main image) | Matches the store. The physical label is **not** on the handoff's "confirmed on a shipped unit" list, the same status as most of the catalog. |
+| β-NMN | supplier render (store main image, includes loose capsules) | Same as NAD+ |
+| Energy, Hydrate, Iron, D3+K2 strips | verified supplier cut-outs | D3+K2 was confirmed on a shipped unit; the others are supplier renders. "Natural Extracts" is still unverified (organic use only). |
+
+**Note on swapping the Eye product:** the Eye product's physical label *was* confirmed on a shipped unit, and Supliful confirmed it matches our label file. The discrepancy is its **name**: the label says "Serum", while the store says "Gel-Cream". The swap follows your instruction. Strictly, NAD+ and β-NMN have weaker physical verification than the Eye product does. If you want only physically confirmed packaging, the alternative is D3+K2 Strips ($34.99 → $27.99, 20%), but Restructuring hasn't confirmed their margin.
+
+## Live verification (12:10–12:40 PM ET, Nov 16)
 | Item | Result |
 |---|---|
 | Membership product | $49.99, available |
 | Membership page `/pages/membership` | 200 |
 | Strips available | Energy ✓, Hydrate ✓, Iron ✓, D3+K2 ✓; Sleep ✗ (sold out); Collagen ✗ (unavailable) |
-| Carousel price examples | NAD+ $59.99 → $47.99 member (20% list); Peptide Eye Gel-Cream $44.99 → $35.99 (20% list) |
+| Carousel price examples | NAD+ $59.99 → $47.99 member (20%); β-NMN $49.99 → $39.99 member (20%). Both read from the live product pages. |
 | Noted | Iron and D3+K2 now list at $34.99. The Nov 11 handoff had $29.99. The creative doesn't use their prices. |
+
+## Shopping-flow pre-check (Marketing, read-only, 12:30 PM ET)
+| Check | Result |
+|---|---|
+| "Already a member? Sign in" link | ✓ Opens the Shopify sign-in page (email field present). Signing in was not tested; that needs a real member account. |
+| "Join to unlock member pricing" link | ✓ 200 → membership product |
+| Membership terms and details pages | ✓ 200 |
+| Join button | Disabled until the terms box is ticked, which is intended. Enabling it and checking out were not tested (no purchase). |
+| Mobile (375 px) NAD+ main "Add to Cart — $59.99" | ✓ Visible, enabled and tappable, with no horizontal overflow |
+| Mobile secondary "Add to Cart" further down the page | ⚠ My automated check couldn't confirm it's tappable. Restructuring should test it by hand. |
+| Member price after sign-in, cart, checkout, CA/NC restriction, purchase tracking | **Not testable by Marketing:** no accounts, purchases or test orders. These need Restructuring's end-to-end test. |
 
 ## Final launch-readiness checklist (to run after Restructuring reports its repairs complete; Marketing will re-run it)
 1. Member sign-in link works (desktop and mobile).
@@ -56,13 +71,13 @@ The design direction is unchanged. These are targeted refinements only.
 > **Become a Founding Member.**
 > This Black Friday, we're not discounting products. We're opening membership.
 >
-> One payment of $49.99 gives you 12 months of EverLiv member pricing on every eligible order, as often as you shop. No subscription, and no automatic renewal.
+> One payment of $49.99 gives you 12 months of EverLiv member pricing on every eligible order (strips, capsules, powders and more) as often as you shop. No subscription, and no automatic renewal.
 >
 > Founding price through January 31, 2027. From February 1, membership is $69.99.
 >
 > Join through the link in bio.
 >
-> *Member pricing applies to eligible one-time product purchases (not Subscribe & Save): most eligible products 20% off, some 15%, some excluded. Savings depend on what you buy. Not available to residents of CA or NC. Terms at everliv.life.*
+> *Member pricing applies to eligible one-time product purchases (not Subscribe & Save): 20% or 15% off depending on the product, some products excluded. Savings depend on what you buy. Not available to residents of CA or NC. Terms at everliv.life.*
 
 **FB:** replace "link in bio" with the UTM link.
 
@@ -71,15 +86,15 @@ The design direction is unchanged. These are targeted refinements only.
 >
 > $49.99 through January 31, 2027 · $69.99 from February 1.
 >
-> *Eligible one-time product purchases; some 15%, some excluded. Prices as of Nov 16 and may change. Not available in CA or NC.*
+> *Eligible one-time product purchases; 20% or 15% depending on the product, some excluded. Prices as of Nov 16 and may change. Not available in CA or NC.*
 
 ### Cyber Monday: story set FM-03, plus a short feed caption (Mon Nov 30)
 > Still deciding? Founding membership is $49.99, paid once, for 12 months of member pricing on every eligible order. The founding price runs through January 31. No auto-renewal, so you choose whether to join again next year.
 
 ### Alt text
-- **FM-01:** "Become a Founding Member. A full year of member pricing, $49.99 paid once. EverLiv Energy, Hydrate, Iron and D3 + K2 oral strip tins."
+- **FM-01:** "EverLiv Founding Member card. Become a Founding Member: a full year of member pricing, $49.99 paid once, on eligible strips, capsules, powders and more."
 - **FM-02 cover:** "EverLiv Founding Member card. Become a Founding Member: a full year of member pricing, $49.99 paid once."
-- **FM-02 slide 3:** "What members pay: NAD+ everyday $59.99, member $47.99. Peptide Eye Gel-Cream everyday $44.99, member $35.99."
+- **FM-02 slide 3:** "What members pay: NAD+ everyday $59.99, member $47.99. β-NMN everyday $49.99, member $39.99."
 - **FM-02 slide 4:** "If every purchase is a 20%-off product, $49.99 divided by 20% equals $249.95."
 
 ### UTMs
@@ -95,7 +110,9 @@ The design direction is unchanged. These are targeted refinements only.
 
 **Preheader:** "A full year of member pricing. $49.99, paid once. Founding price through January 31, 2027."
 
-**Body:** see `FM-05-email-black-friday.html`.
+**Body:** see `FM-05-email-black-friday.html`. On a 390 px phone screen it has no sideways scrolling, and the CTA is 300×52 px.
+
+**Unsubscribe:** the `{{unsubscribe}}` placeholder must be replaced by Shopify Messaging's own unsubscribe link and footer when the email is rebuilt there. Send only to opted-in subscribers.
 
 ## Still on hold
 - **Paid advertising.** Purchase tracking, the CA/NC geo-exclusion and membership restrictions all need to be verified first, and you need to approve a budget.
